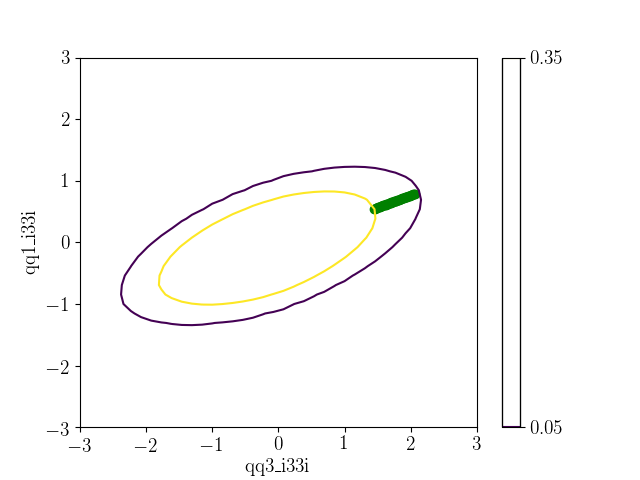
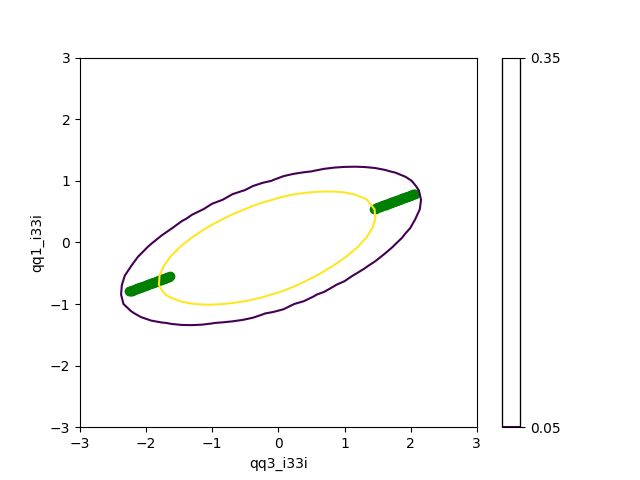
seperated chi_2 into two seperate files, so not rerunning initial calculation twice

diff --git a/ex2/chi2_extended.py b/ex2/chi2_extended.py
@@ -1,37 +1,9 @@
 #imports
-#tf
-from topfitter.analysis.frames import PredictionArray, AnalysisFrame
-from topfitter.fitting import FitHandler
 #numpy
 import numpy as np
 #matplotlib
 import matplotlib.pyplot as plt
 from matplotlib.patches import Ellipse
-#scipy
-from scipy.stats import chisquare, chi2
-from scipy import stats
-
-def chi2_local(observed, expected, error):
-	#function to calculate chi2 from two arrays
-	if len(observed) != len(expected):
-		print("Inputted data doesn't match length")
-		return 0.
-
-	chi2_sum = 0.
-	for i in range(len(observed)):
-	# calculate each chi2 part
-		chi2_part = (observed[i]-expected[i])**2/error[i]
-		chi2_sum = chi2_sum + chi2_part
-
-	return chi2_sum
-
-
-def getPred(fh, wcdict):
-	#funtion for predicting the theory values for a given pair of wilson coefficients
-	#{'qq3_i33i', 'G', 'qq1_ii33', 'uu_i33i', 'qu1_33ii', 'qu8_33ii', 'qq1_i33i', 'qu8_ii33', 'qq3_ii33', 'uG_33', 'ud1_33ii', 'qd8_33ii', 'qu1_ii33', 'uu_ii33', 'qd1_33ii', 'ud8_33ii'}
-	#returns
-	prediction = fh.predict(**wcdict)#iqq3_i33i=wcValue2)#, uG_33=wcValue2)#
-	return [x[0] for x in prediction.values]
 
 def rotatePoints(x, y, angle):
 	"""Function to rotate a point in x,y space clockwise around the axis by angle radians"""
@@ -118,62 +90,16 @@ def getCoordsInt(lenNarrow, lenWide, xCen, yCen, angle):
 
 	return xRotPos+xCen, yRotPos+yCen, xRotNeg, yRotNeg
 
-
+#calculate p
+pArray = np.loadtxt("pArray.txt")
 wilco1 = "qq3_i33i"
 wilco2 = "qq1_i33i"
 
-#generate prediction array from data
-#af = AnalysisFrame.from_hdf('/nfs/topfitter/sbrown/HDF/analyses/ATLAS_2017_I1604029/ATLAS_2017_I1604029.h5')
-af = AnalysisFrame.from_hdf('../../HDF/CMS_2018_I1662081.h5')
-pa = PredictionArray(af.xr)
-fh = FitHandler(pa)
-
-#get data values and error
-obs = [x[0] for x in fh.reference.values]
-err = [x[1] for x in fh.reference.values]
-print(err)
-
-wcdict = {}
-wcnames = pa.wilcos
-for name in wcnames:
-	wcdict[name] = 0.
-
-
-#print(pa.reference)
-#print(fh.reference)
-#print(pa.atpoint(G=1, qq3_i33i=1))
-#print(chisquare(obs, [x[0] for x in pa.atpoint(G=3, qq3_i33i=3).values]))
-
-#split by observable? use pa.reference.loc[level, 'value'] to get list instead
-
- 
 #plotting noValues*noValues with given x and y ranges
 noValues = 40
 xBins = np.linspace(-3, 3, noValues)
 yBins = np.linspace(-3, 3, noValues)
 
-i = 0
-j = 0
-chi2Array = np.zeros((noValues, noValues))
-for x in xBins:
-	for y in yBins:
-		wcdict[wilco1] = x
-		wcdict[wilco2] = y
-		pred = getPred(fh, wcdict)
-		chi2Value = chi2_local(obs, pred, err)
-		chi2Array[i][j] = chi2Value
-		j+=1
-	j=0
-	i+=1
-#print(pred)
-
-#print(chi2Array)
-#Calculate delta chi2
-
-chi2Array = chi2Array - chi2Array.min()
-
-#calculate p
-pArray = chi2.sf(chi2Array, 2)
 
 #plot
 fig, ax = plt.subplots()
@@ -208,7 +134,8 @@ xPos, yPos, xNeg, yNeg = getCoordsInt( lenNarrowMaj, lenWideMaj, xCen, yCen, the
 
 fig.colorbar(cont, ax=ax)
 ax.scatter(xPos, yPos, c = 'g', marker='o')
-plt.xlabel(wilco1.replace("_",r"\_"))
-plt.ylabel(wilco2.replace("_",r"\_"))
+ax.scatter(xNeg, yNeg, c = 'g', marker='o')
+plt.xlabel(wilco1)
+plt.ylabel(wilco2)
 plt.show()
 fig.savefig("contour_plots/rotationtest_{}_{}".format(wilco1.replace("_",""), wilco2.replace("_","")))

diff --git a/ex2/chi2.py b/ex2/chi2.py
@@ -20,16 +20,17 @@ def chi2_local(observed, expected, error):
 	return chi2_sum
 
 
-def getPred(fh, wcValue1, wcValue2):
+
+def getPred(fh, wcdict):
 	#funtion for predicting the theory values for a given pair of wilson coefficients
 	#{'qq3_i33i', 'G', 'qq1_ii33', 'uu_i33i', 'qu1_33ii', 'qu8_33ii', 'qq1_i33i', 'qu8_ii33', 'qq3_ii33', 'uG_33', 'ud1_33ii', 'qd8_33ii', 'qu1_ii33', 'uu_ii33', 'qd1_33ii', 'ud8_33ii'}
 	#returns
-	prediction = fh.predict(qq3_i33i=wcValue1, qq1_i33i=wcValue2)#iqq3_i33i=wcValue2)#, uG_33=wcValue2)#
+	prediction = fh.predict(**wcdict)#iqq3_i33i=wcValue2)#, uG_33=wcValue2)#
 	return [x[0] for x in prediction.values]
 
 
-wilco1 = "qq3\_i33i"
-wilco2 = "qq1\_i33i"
+wilco1 = "qq3_i33i"
+wilco2 = "qq1_i33i"
 
 #generate prediction array from data
 #af = AnalysisFrame.from_hdf('/nfs/topfitter/sbrown/HDF/analyses/ATLAS_2017_I1604029/ATLAS_2017_I1604029.h5')
@@ -41,6 +42,11 @@ fh = FitHandler(pa)
 obs = [x[0] for x in fh.reference.values]
 err = [x[1] for x in fh.reference.values]
 print(err)
+
+wcdict = {}
+wcnames = pa.wilcos
+for name in wcnames:
+	wcdict[name] = 0.
 
 print(pa.wilcos)
 #print(pa.reference)
@@ -60,8 +66,10 @@ i = 0
 j = 0
 chi2Array = np.zeros((noValues, noValues))
 for x in xBins:
-	for y in yBins:		
-		pred = getPred(fh, x, y)
+	for y in yBins:
+		wcdict[wilco1] = x
+		wcdict[wilco2] = y
+		pred = getPred(fh, wcdict)
 		chi2Value = chi2_local(obs, pred, err)
 		chi2Array[i][j] = chi2Value
 		j+=1
@@ -77,6 +85,7 @@ chi2Array = chi2Array - chi2Array.min()
 #calculate p
 pArray = chi2.sf(chi2Array, 2)
 
+np.savetxt("pArray.txt", pArray)
 #print(chi2Array)
 #print(pArray)
 
@@ -89,4 +98,4 @@ fig.colorbar(cont, ax=ax)
 plt.xlabel(wilco1)
 plt.ylabel(wilco2)
 plt.show()
-fig.savefig("contour_plots/contours_p_{}_{}.png".format(wilco1.replace("\\",""), wilco2.replace("\\","")))
+fig.savefig("contour_plots/contours_p_{}_{}.png".format(wilco1, wilco2))
